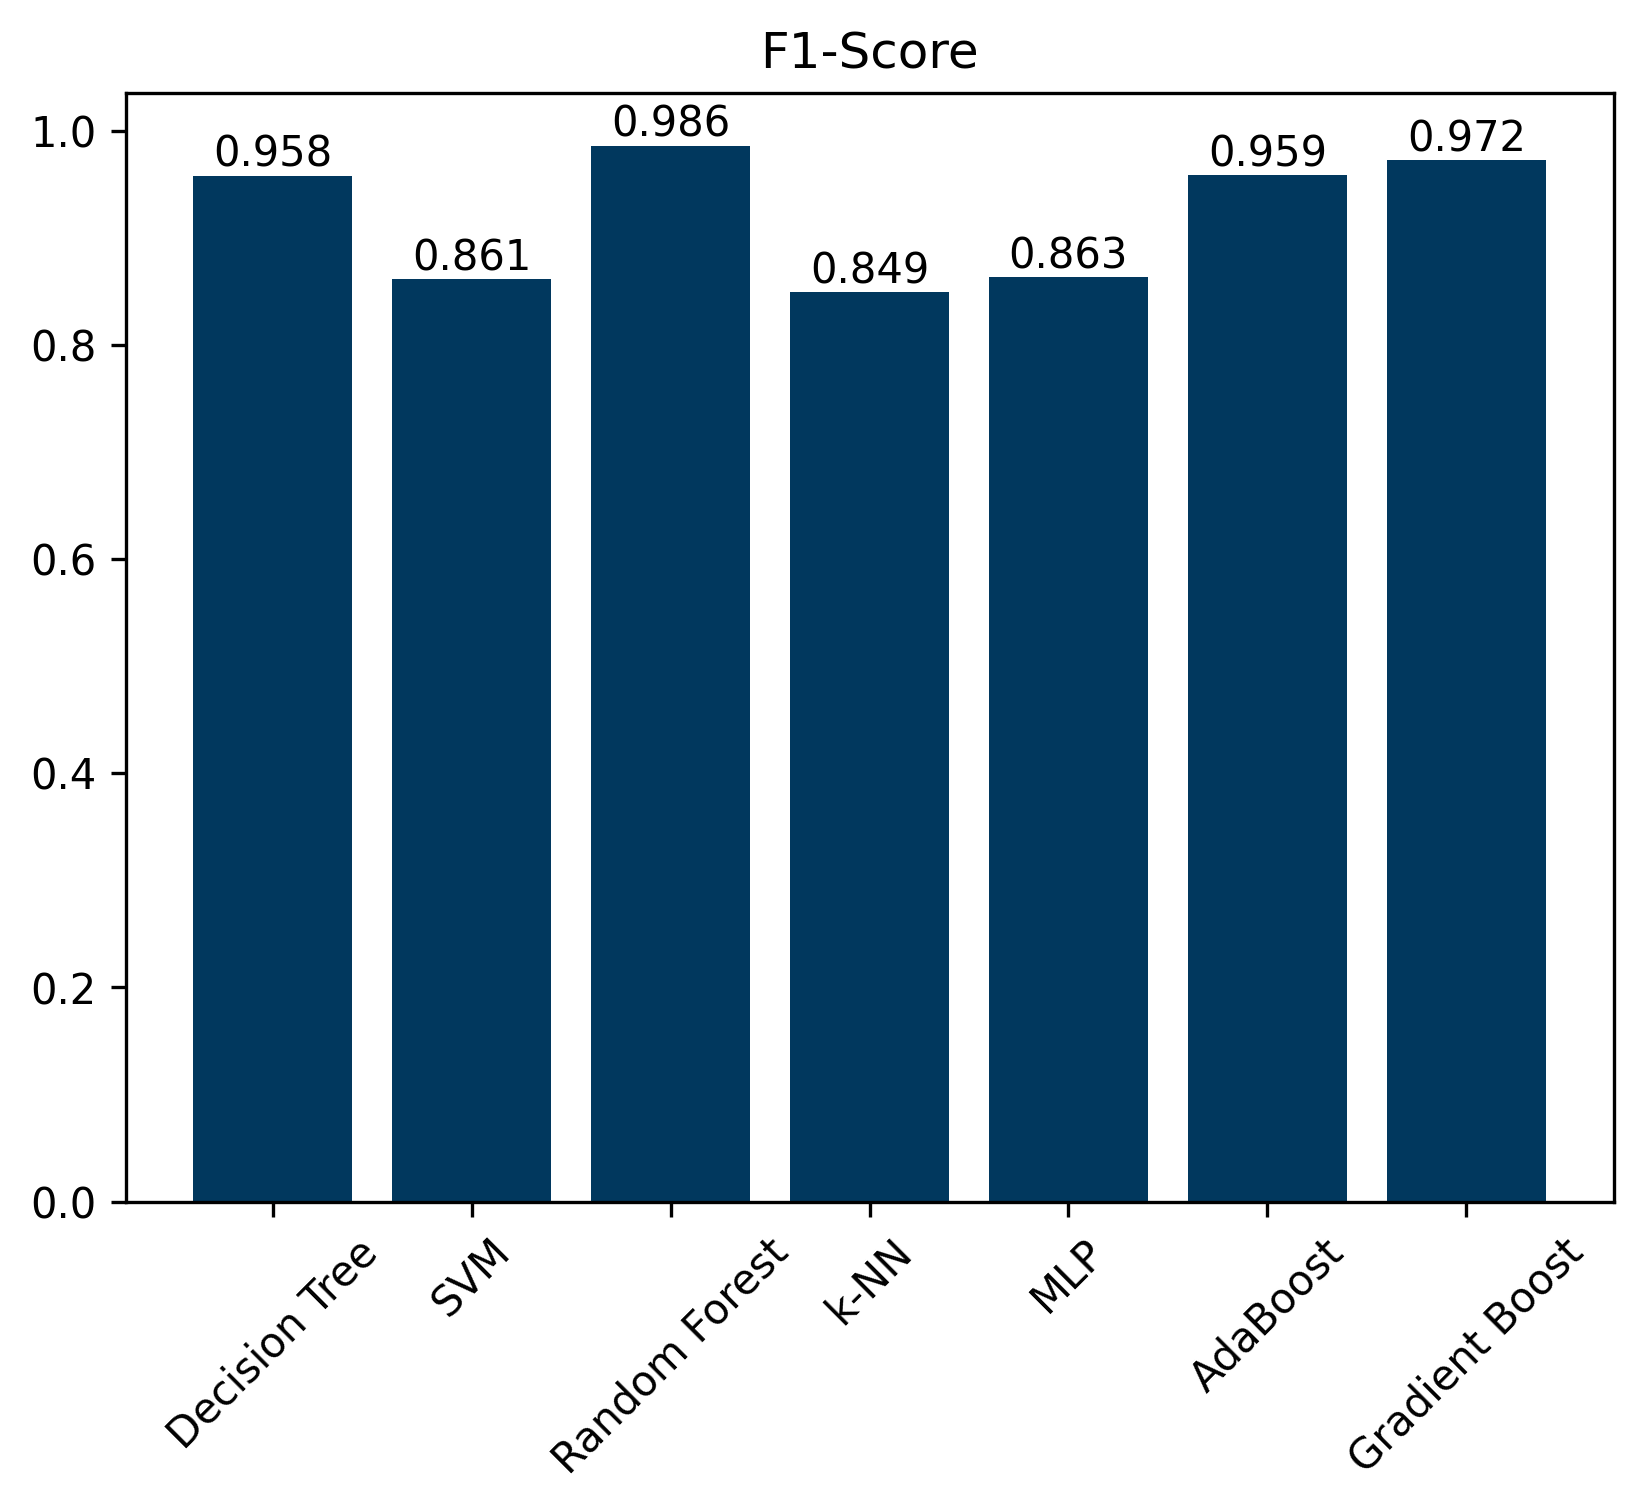
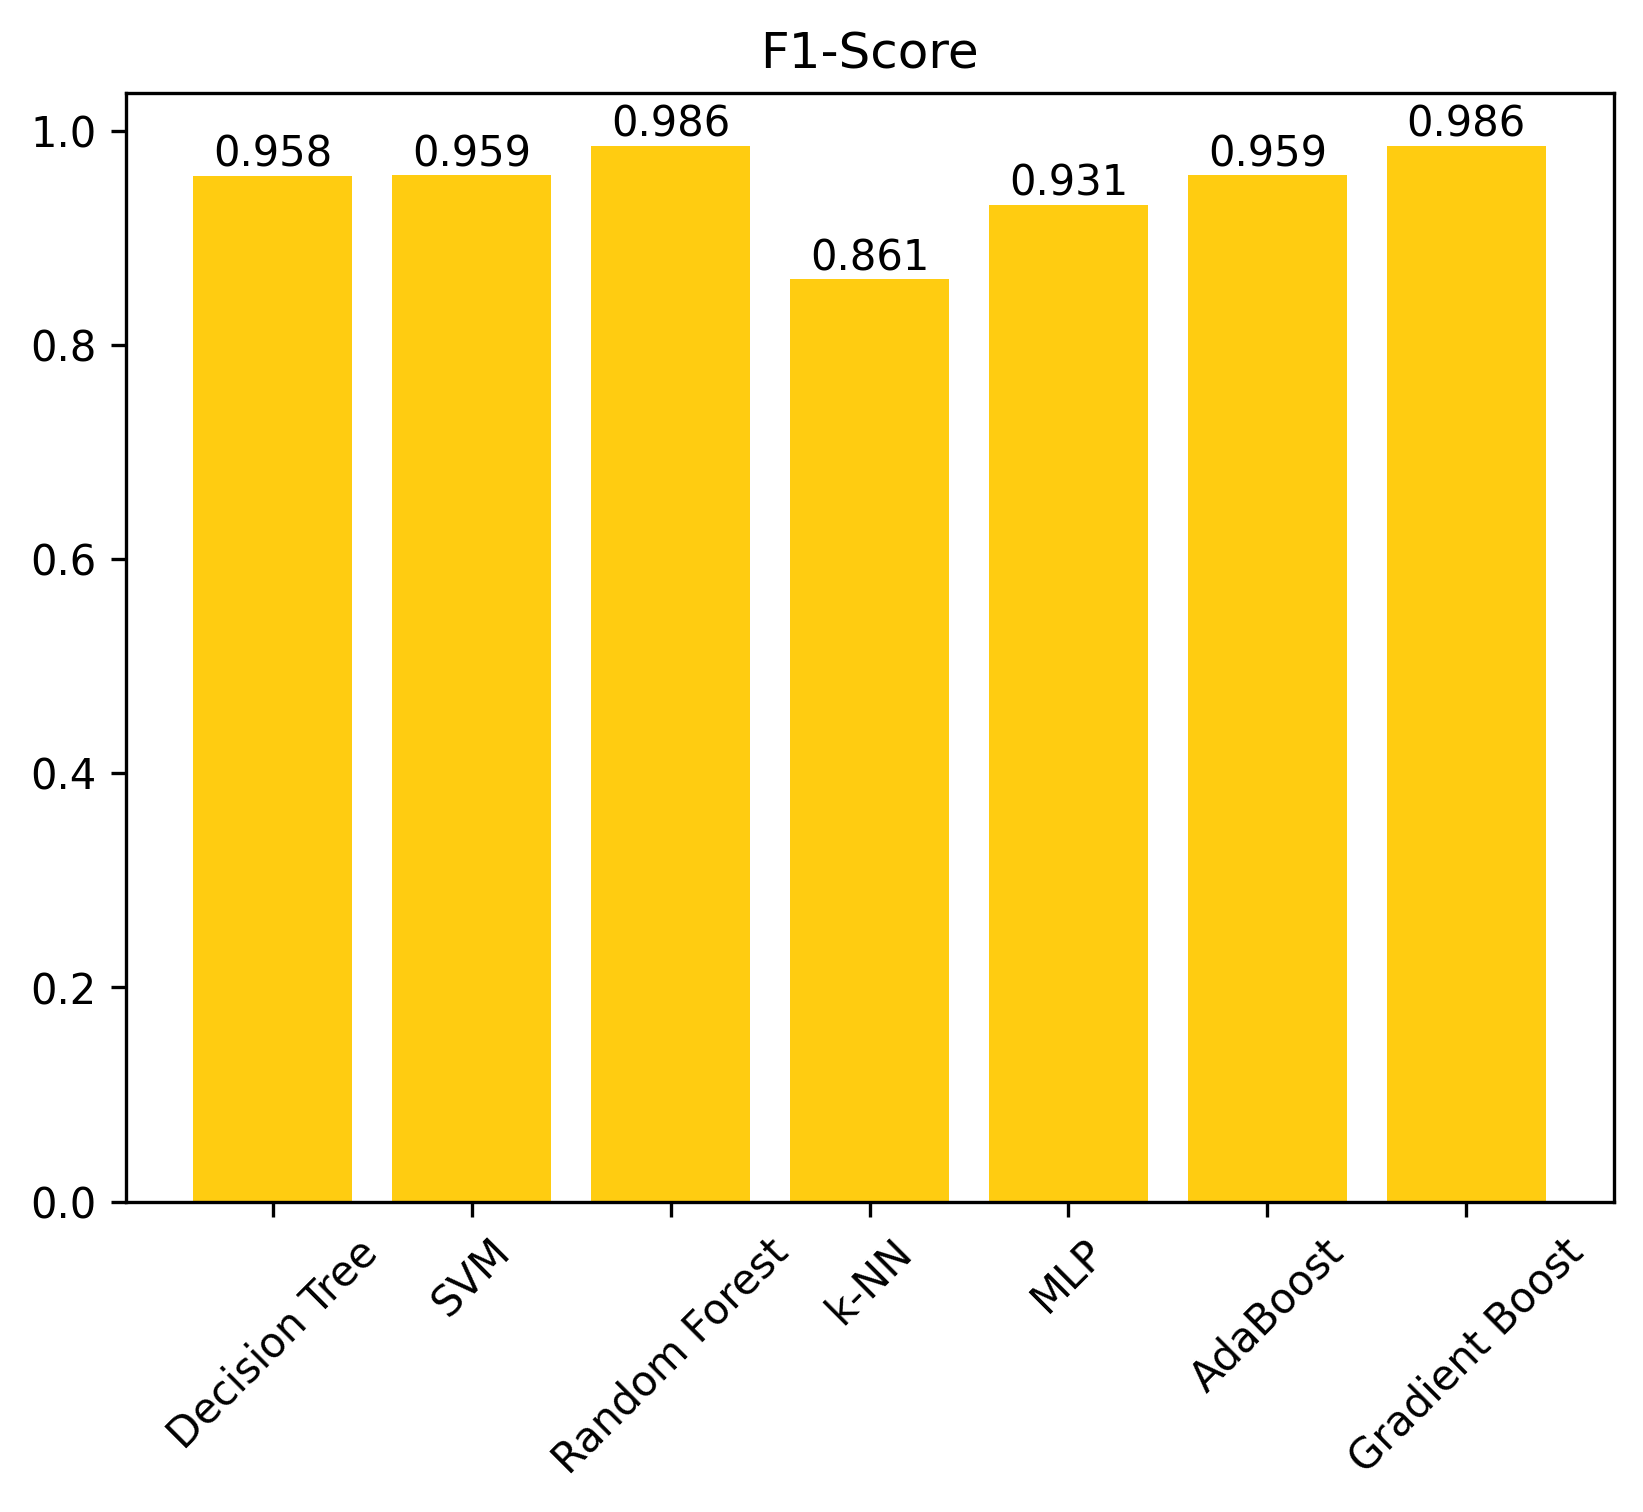
Improved plots generations and parameters for models

diff --git a/code/part2.py b/code/part2.py
@@ -2,7 +2,8 @@ import pandas as pd
 import numpy as np
 import seaborn as sns
 from sklearn import preprocessing
-from sklearn.model_selection import train_test_split
+from sklearn.feature_selection import RFECV
+from sklearn.model_selection import GridSearchCV, train_test_split
 from sklearn import tree
 import matplotlib.pyplot as plt
 from sklearn.model_selection import cross_val_score
@@ -28,7 +29,6 @@ raw_data["Region"] = raw_data["Region"].map({"Bejaia": 1, "Sidi-Bel Abbes": 0})
 # Remove unused data
 raw_data.drop(['Classes','year'], axis=1, inplace=True)
 
-
 MIN_MAX_VALUES = {
     "Temperature": (22, 42),
     "RH": (21,90),
@@ -48,23 +48,8 @@ def normalize_min_max_scaler():
         minmax=preprocessing.MinMaxScaler(feature_range=(MIN_MAX_VALUES[a][0],MIN_MAX_VALUES[a][1]))
         raw_data[a] = minmax.fit_transform(raw_data[[a]])
 
-# Split data into 70,15,15 
+# Split data into 70,30
 # Stratify is used so there is an close to equal ammount of fire/not fire in each dataset
-def split_data_70_15():
-    train_data, temp_data = train_test_split(raw_data, train_size=0.7, random_state=RANDOM, stratify=raw_data['Fire'])
-    vali_data, test_data = train_test_split(temp_data, test_size=0.5, random_state=RANDOM, stratify=temp_data['Fire'])
-
-    # Seperate label from data
-    train_label = train_data['Fire'].copy()
-    vali_label = vali_data['Fire'].copy()
-    test_label = test_data['Fire'].copy()
-
-    train_data = train_data.drop(['Fire'], axis=1)
-    vali_data = vali_data.drop(['Fire'], axis=1)
-    test_data = test_data.drop(['Fire'], axis=1)
-
-    return train_data,train_label, vali_data,vali_label, test_data,test_label
-
 def split_data_70_30():
     train_data, test_data = train_test_split(raw_data, train_size=0.7, random_state=RANDOM, stratify=raw_data['Fire'])
 
@@ -72,6 +57,7 @@ def split_data_70_30():
     train_label = train_data['Fire'].copy()
     test_label = test_data['Fire'].copy()
 
+    # Drop label from data
     train_data = train_data.drop(['Fire'], axis=1)
     test_data = test_data.drop(['Fire'], axis=1)
 
@@ -79,9 +65,17 @@ def split_data_70_30():
 
 def train_decision_tree():
     clf = tree.DecisionTreeClassifier(random_state=RANDOM)
-    clf.fit(train_data,train_label)
+    params = {
+        'criterion':['gini', 'entropy', 'log_loss'],
+        'splitter':['best','random'],
+        'max_features':['sqrt','log2',None]
+    }
+    grid_search = GridSearchCV(estimator=clf, param_grid=params, scoring='recall', verbose=1)
+    grid_search.fit(train_data, train_label)
 
-    predict = clf.predict(test_data)
+    final_model = grid_search.best_estimator_
+    print(grid_search.best_params_)
+    predict =  final_model.predict(test_data)
 
     report = classification_report(test_label,predict, target_names=['Not Fire','Fire'], output_dict=True)
     matrix = confusion_matrix(test_label,predict)
@@ -92,19 +86,19 @@ def train_decision_tree():
 
     return report, matrix
 
-normalize_min_max_scaler()
-
-#train_data, train_label, vali_data, vali_label, test_data, test_label = split_data_70_15()
-train_data, train_label, test_data, test_label = split_data_70_30()
-
-report_decision_tree, matrix_decision_tree = train_decision_tree()
-
-
 def train_SVM():
-    clf = SVC(random_state = 42)
-    clf.fit(train_data, train_label)
+    clf = SVC(random_state = RANDOM)
+    params = {
+        'kernel':['linear', 'poly', 'rbf', 'sigmoid'],
+        'gamma':['scale'],
+        'decision_function_shape':['ovo','ovr'],
+    }
+    grid_search = GridSearchCV(estimator=clf, param_grid=params, scoring='recall', verbose=1)
+    grid_search.fit(train_data, train_label)
 
-    predict = clf.predict(test_data)
+    final_model = grid_search.best_estimator_
+    print(grid_search.best_params_)
+    predict =  final_model.predict(test_data)
 
     report = classification_report(test_label, predict, target_names=['Not Fire','Fire'], output_dict=True)
     matrix = confusion_matrix(test_label,predict)
@@ -115,14 +109,14 @@ def train_SVM():
 
     return report,matrix
 
-report_svm, matrix_svm = train_SVM()
-
-
 def train_random_forest():
     clf = RandomForestClassifier(n_estimators=10, random_state = RANDOM, oob_score=True)
     clf.fit(train_data, train_label)
 
     predict = clf.predict(test_data)
+
+    report = classification_report(test_label, predict, target_names=['Not Fire','Fire'], output_dict=True)
+    matrix = confusion_matrix(test_label,predict)
 
     report = classification_report(test_label, predict, target_names=['Not Fire','Fire'], output_dict=True)
     matrix = confusion_matrix(test_label,predict)
@@ -133,14 +127,18 @@ def train_random_forest():
 
     return report, matrix
 
-report_random_forest, matrix_random_forest = train_random_forest()
-
-
 def train_knn():
     clf = KNeighborsClassifier(n_neighbors = 42)
-    clf.fit(train_data, train_label)
+    params = {
+        'algorithm':['auto', 'ball_tree', 'kd_tree', 'brute'],
+        'weights':['uniform','distance',None]
+    }
+    grid_search = GridSearchCV(estimator=clf, param_grid=params, scoring='recall', verbose=1)
+    grid_search.fit(train_data, train_label)
 
-    predict = clf.predict(test_data)
+    final_model = grid_search.best_estimator_
+    print(grid_search.best_params_)
+    predict =  final_model.predict(test_data)
 
     report = classification_report(test_label, predict, target_names=['Not Fire','Fire'], output_dict=True)
     matrix = confusion_matrix(test_label,predict)
@@ -152,11 +150,17 @@ def train_knn():
     return report, matrix
 
 def train_mlp():
-    #Probably change some parameters
-    clf = MLPClassifier(max_iter=1000, random_state=RANDOM)
-    clf.fit(train_data, train_label)
+    clf = MLPClassifier(max_iter=2000, random_state=RANDOM)
+    params = {
+        'activation':['identity', 'logistic', 'tanh', 'relu'],
+        'solver':['lbfgs','sgd','adam'],
+    }
+    grid_search = GridSearchCV(estimator=clf, param_grid=params, scoring='recall', verbose=1)
+    grid_search.fit(train_data, train_label)
 
-    predict = clf.predict(test_data)
+    final_model = grid_search.best_estimator_
+    print(grid_search.best_params_)
+    predict =  final_model.predict(test_data)
 
     report = classification_report(test_label, predict, target_names=['Not Fire','Fire'], output_dict=True)
     matrix = confusion_matrix(test_label,predict)
@@ -167,10 +171,7 @@ def train_mlp():
 
     return report, matrix
 
-report_mlp, matrix_mlp = train_mlp()
-
 def train_ada_boost():
-    #Probably change some parameters
     clf = AdaBoostClassifier(random_state=RANDOM)
     clf.fit(train_data, train_label)
 
@@ -185,14 +186,19 @@ def train_ada_boost():
 
     return report, matrix
 
-report_ada, matrix_ada = train_ada_boost()
-
 def train_gradient_boost():
-    #Probably change some parameters
     clf = GradientBoostingClassifier(random_state=RANDOM)
-    clf.fit(train_data, train_label)
+    params = {
+        'loss':['log_loss', 'exponential'],
+        'criterion':['friedman_mse','squared_error'],
+        'max_features':['sqrt', 'log2', None]
+    }
+    grid_search = GridSearchCV(estimator=clf, param_grid=params, scoring='recall', verbose=1)
+    grid_search.fit(train_data, train_label)
 
-    predict = clf.predict(test_data)
+    final_model = grid_search.best_estimator_
+    print(grid_search.best_params_)
+    predict =  final_model.predict(test_data)
 
     report = classification_report(test_label, predict, target_names=['Not Fire','Fire'], output_dict=True)
     matrix = confusion_matrix(test_label,predict)
@@ -203,12 +209,24 @@ def train_gradient_boost():
 
     return report, matrix
 
+def evaluation_plots():
+    reports = [report_decision_tree, report_svm, report_random_forest, report_knn, report_mlp, report_ada, report_gradient]
+    names = ["Decision Tree", "SVM", "Random Forest", "k-NN", "MLP", "AdaBoost", "Gradient Boost"]
+    plot_generator.accuracy_comparison(reports, names)
+    plot_generator.f1_score_comparison(reports, names)
+    plot_generator.recall_score_comparison(reports, names)
+
+normalize_min_max_scaler()
+train_data, train_label, test_data, test_label = split_data_70_30()
+
+report_decision_tree, matrix_decision_tree = train_decision_tree()
+report_svm, matrix_svm = train_SVM()
+report_random_forest, matrix_random_forest = train_random_forest()
+report_mlp, matrix_mlp = train_mlp()
+report_ada, matrix_ada = train_ada_boost()
 report_gradient, matrix_gradient = train_gradient_boost()
-
-
 report_knn, matrix_knn = train_knn()
-reports = [report_decision_tree, report_svm, report_random_forest, report_knn, report_mlp, report_ada, report_gradient]
-names = ["Decision Tree", "SVM", "Random Forest", "k-NN", "MLP", "AdaBoost", "Gradient Boost"]
-plot_generator.accuracy_comparison(reports, names)
-plot_generator.f1_score_comparison(reports, names)
 
+evaluation_plots()
+
+print("Done")

diff --git a/code/plot_generator.py b/code/plot_generator.py
@@ -1,3 +1,5 @@
+from matplotlib.colors import LinearSegmentedColormap
+import numpy as np
 import seaborn as sns
 import matplotlib.pyplot as plt
 
@@ -6,7 +8,7 @@ def display_confusion_matrix(matrix, name):
     :param matrix: confusion_matrix to display
     :param name: file will be named name + "_confusion_matrix.png"
     """
-    plot = sns.heatmap(matrix, cbar=False,  annot=True, cmap=sns.light_palette("#01385e",as_cmap=True))
+    plot = sns.heatmap(matrix, cbar=False,  annot=True, cmap=sns.color_palette("blend:#FFCC11,#992222", as_cmap=True))
     plot.set_xticklabels(labels=["Not Fire", "Fire"])
     plot.set_xlabel("Prediction")
     plot.xaxis.tick_top()
@@ -22,7 +24,7 @@ def accuracy_comparison(reports,names):
     accuracy = []
     for i in range(len(reports)):
         accuracy.append(reports[i]['accuracy'])
-    plot = plt.bar(names, accuracy, color="#01385e")
+    plot = plt.bar(names, accuracy, color="#FFCC11")
     plt.bar_label(plot, fmt='{:,.3f}')
     plt.xticks(rotation=45)
     plt.title("Accuracy")
@@ -35,10 +37,31 @@ def f1_score_comparison(reports,names):
     for i in range(len(reports)):
         f1.append(reports[i]['macro avg']['f1-score'])
 
-    plot = plt.bar(names, f1, color="#01385e")
+    plot = plt.bar(names, f1, color="#FFCC11")
     plt.bar_label(plot, fmt='{:,.3f}')
     plt.xticks(rotation=45)
     plt.title("F1-Score") 
     plt.savefig("figure/comparison/f1_score_bar_chart.png", dpi=300, bbox_inches="tight")
     #plt.show()
     plt.close()
+
+def recall_score_comparison(report, names):
+    x = np.arange(len(names))*2
+    not_fire_recall = []
+    fire_recall = []
+    for i in range(len(names)):
+        not_fire_recall.append(report[i]['Not Fire']['recall'])
+        fire_recall.append(report[i]['Fire']['recall'])
+    
+    width=0.9
+    plot1 = plt.bar(x-width/2,not_fire_recall, width, color='#FFCC11',label='Not Fire')
+    plot2 = plt.bar(x+width/2,fire_recall, width, color='#992222', label='Fire')
+    plt.xticks(x, names, rotation=45)
+    plt.legend(loc='upper left', ncols=2)
+    plt.bar_label(plot1, fmt='{:,.3f}', fontsize=8)
+    plt.bar_label(plot2, fmt='{:,.3f}', fontsize=8)
+    plt.title("Recall")
+    plt.ylim(top=1.2)
+    plt.tight_layout()
+    plt.savefig("figure/comparison/recall_score_bar_chart.png", dpi=300, bbox_inches="tight")
+    #plt.show()
